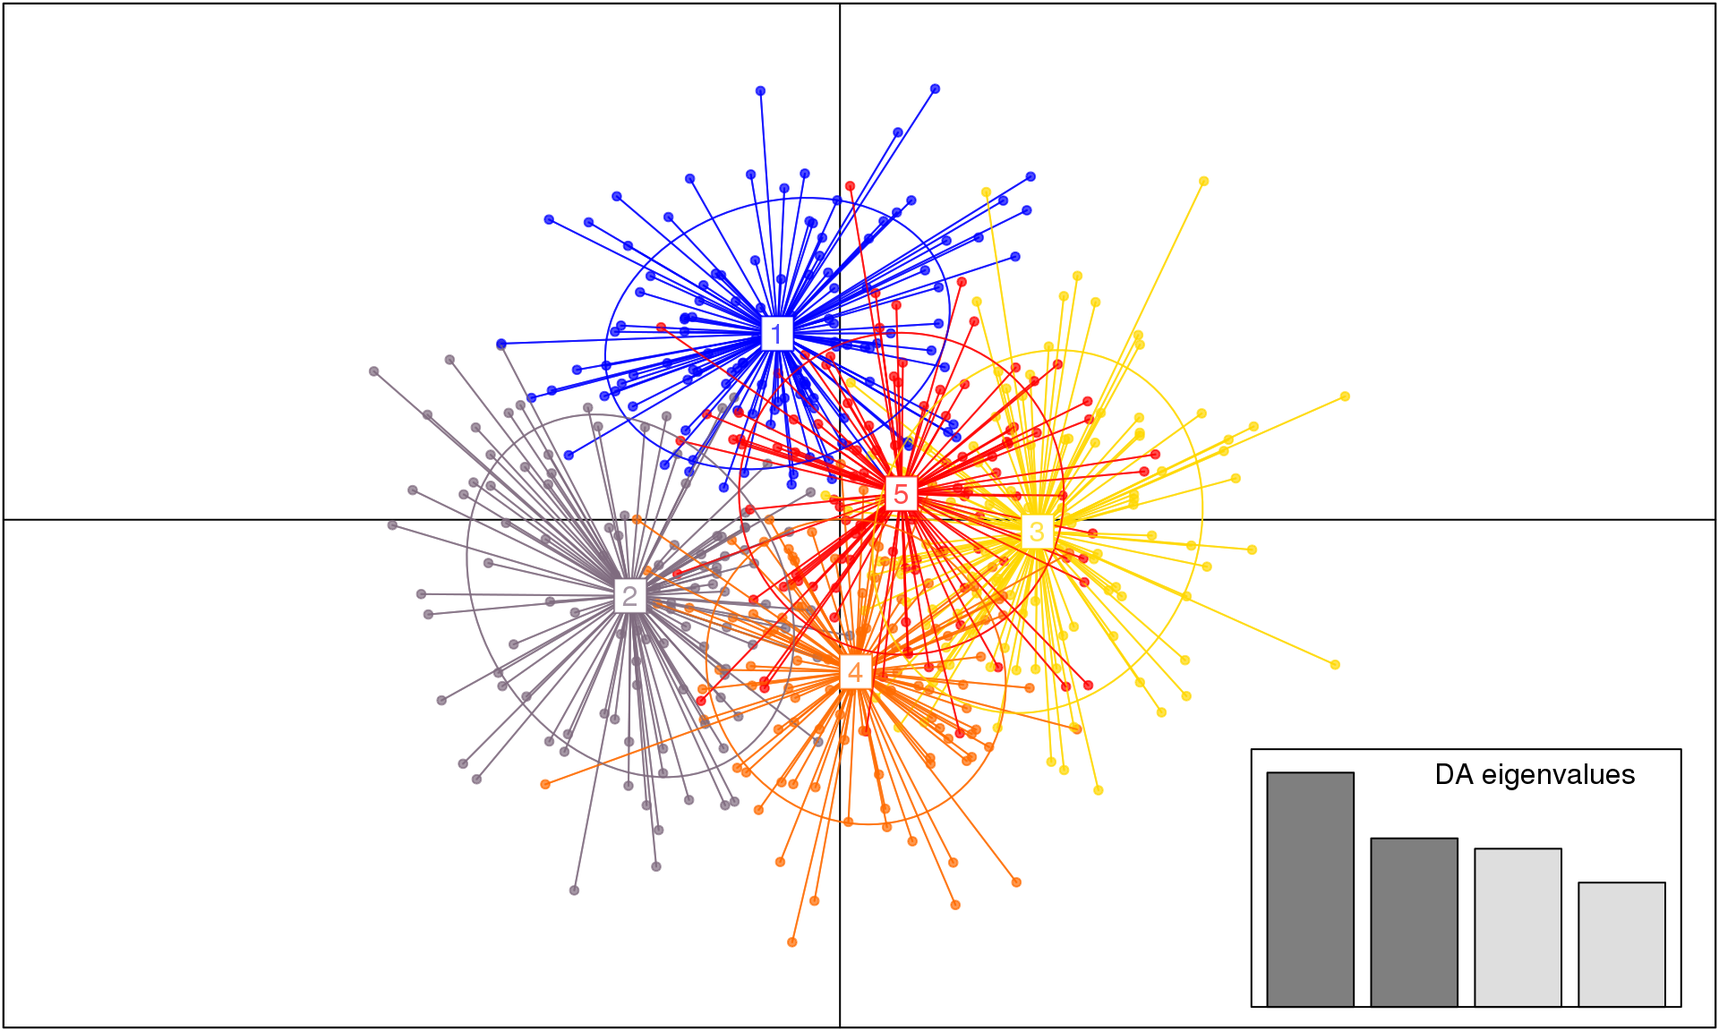
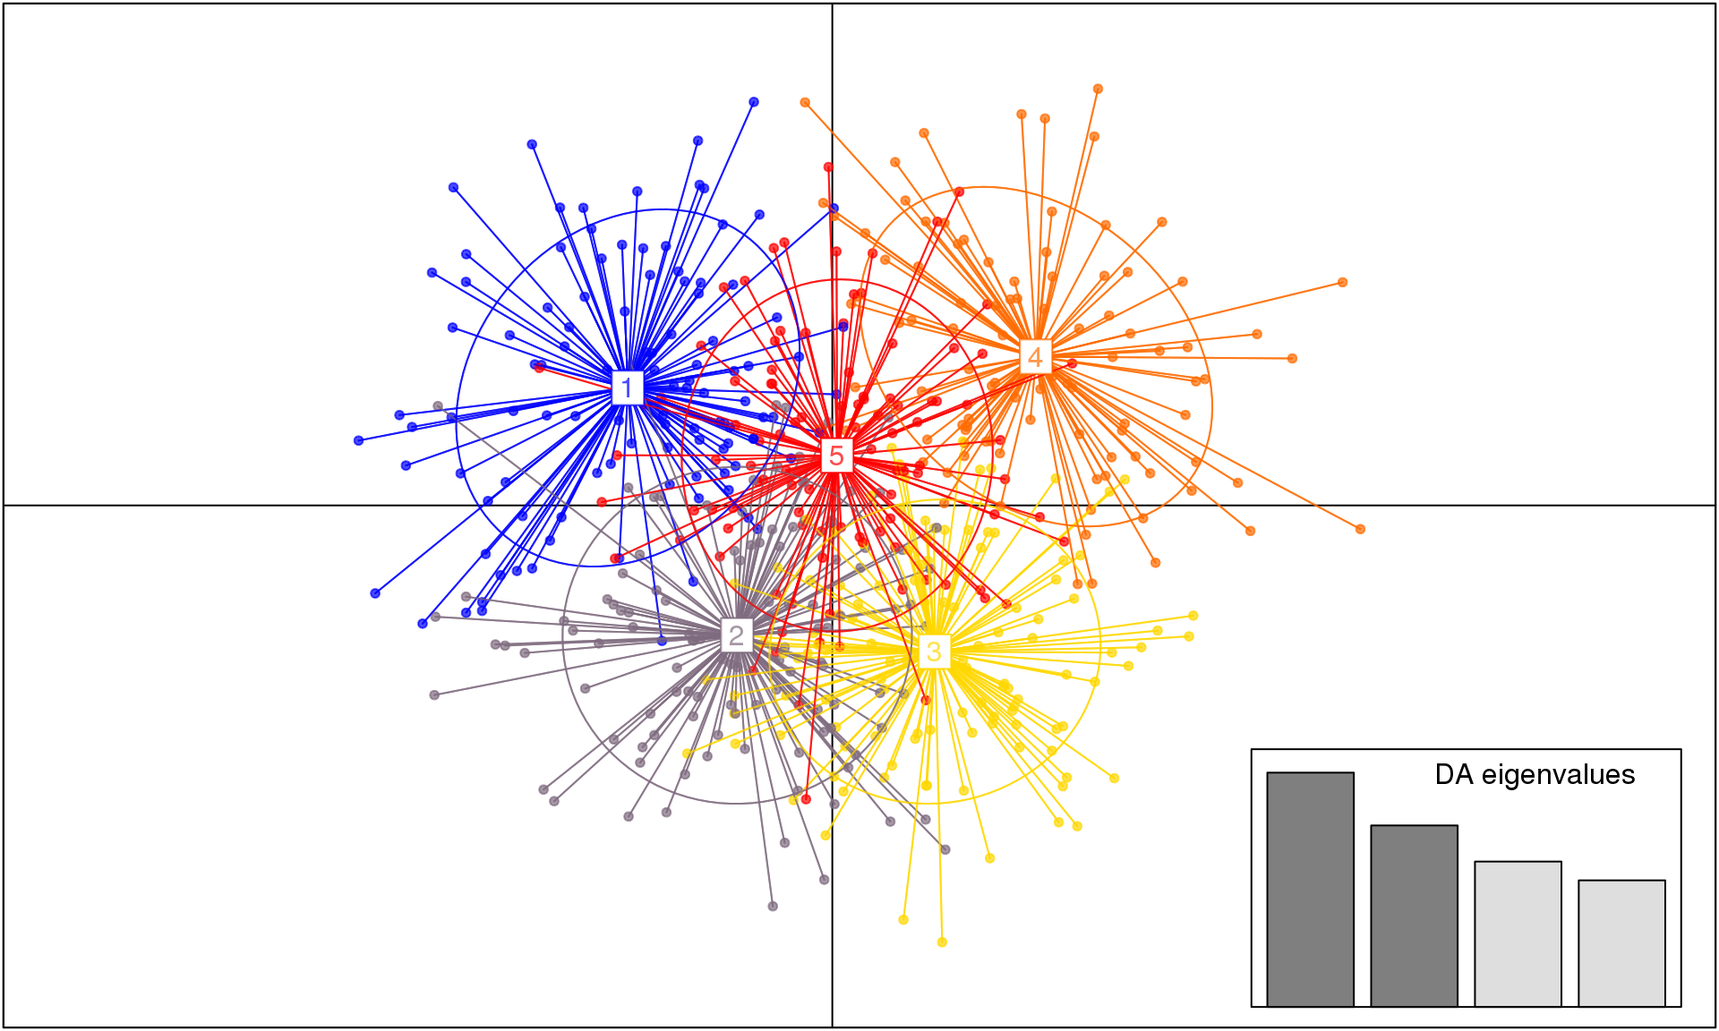
Website rebuild

diff --git a/DifferentiationSNP.html b/DifferentiationSNP.html
@@ -867,31 +867,31 @@ Mydata1</code></pre>
 ## county     0.00000000 0.00000000 0.01829604</code></pre>
 <pre class="sourceCode r"><code class="sourceCode r"><span class="kw">test.g</span>(loci, <span class="dt">level =</span> population) </code></pre>
 <pre><code>## $g.star
-##   [1] 210.8100 186.3870 230.4948 167.0410 207.3651 237.2753 176.4768
-##   [8] 215.3205 230.4162 216.4219 218.5929 226.9873 197.5957 203.1308
-##  [15] 231.4134 194.1879 191.3711 217.2182 200.3523 239.2602 216.3045
-##  [22] 231.3728 195.3112 259.8892 202.4718 188.2776 214.3037 230.2222
-##  [29] 223.9776 210.2512 220.2253 237.8656 229.0667 259.2973 212.3970
-##  [36] 235.6147 228.3443 211.5380 202.8803 210.7570 212.9857 199.6154
-##  [43] 221.4950 257.8399 242.5471 245.3602 223.6307 202.4137 209.8531
-##  [50] 268.6371 254.4837 223.1305 217.4867 231.6750 190.1908 208.0980
-##  [57] 211.1745 240.7807 210.4674 227.0127 230.8674 237.9177 180.6509
-##  [64] 232.5953 258.1977 277.1436 203.6562 164.0938 203.8054 236.7170
-##  [71] 195.9884 223.6362 214.7981 223.8584 258.7414 182.6587 249.0385
-##  [78] 241.1837 201.3635 216.5108 195.1451 212.1377 203.3206 195.6322
-##  [85] 256.8467 254.5412 191.9983 207.8805 231.6262 271.1513 218.0037
-##  [92] 197.6471 209.9039 239.6341 210.8253 203.6352 207.6693 193.6882
-##  [99] 211.2401 378.7654
+##   [1] 218.4701 221.5933 195.0217 188.0267 250.7419 209.2837 216.6856
+##   [8] 237.4567 222.4132 254.3397 217.2368 224.0422 233.0045 232.2835
+##  [15] 223.9049 243.1879 270.5246 241.0208 208.4008 249.6714 251.0227
+##  [22] 264.0990 240.1124 244.8748 214.9818 206.2400 198.3410 237.3491
+##  [29] 186.4258 236.4478 200.7472 241.1557 207.7276 225.1637 248.9579
+##  [36] 228.9557 220.7122 236.3679 225.5039 217.8031 225.9740 192.7351
+##  [43] 217.5833 233.1850 227.1071 232.9625 250.2154 209.7124 214.6590
+##  [50] 237.1523 214.6997 215.2751 210.8989 198.1269 235.7991 233.6489
+##  [57] 214.0363 278.1111 183.9962 209.9724 224.6429 245.4499 213.0595
+##  [64] 210.0326 207.8942 193.2628 215.4560 189.4061 238.4702 212.4915
+##  [71] 196.6334 214.3665 229.7652 218.1843 221.3933 225.7334 239.7780
+##  [78] 271.1591 208.7467 212.4295 247.1032 192.8331 254.8385 250.4488
+##  [85] 247.0090 205.9685 186.7695 226.2642 249.5318 209.8881 219.8417
+##  [92] 207.3815 243.0336 227.8717 194.6572 233.1414 222.5423 186.9131
+##  [99] 194.3453 378.7654
 ## 
 ## $p.val
 ## [1] 0.01</code></pre>
 <pre class="sourceCode r"><code class="sourceCode r"><span class="kw">test.between</span>(loci, <span class="dt">test.lev =</span> population, <span class="dt">rand.unit =</span> county, <span class="dt">nperm =</span> <span class="dv">30</span>) </code></pre>
 <pre><code>## $g.star
-##  [1] 208.7316 309.4362 227.0450 328.8174 227.3692 323.7946 295.0984
-##  [8] 256.6360 259.1800 309.9605 280.6658 241.1172 267.8485 293.4560
-## [15] 232.0649 299.5720 260.7764 228.9724 247.2050 261.4925 259.5845
-## [22] 236.4597 212.6771 246.6692 242.8583 230.3342 297.5417 276.1284
-## [29] 229.3126 378.7654
+##  [1] 277.9410 251.3548 258.5737 255.3215 209.6048 241.3901 275.5063
+##  [8] 275.9565 246.1506 244.3617 260.1508 279.1175 257.4749 243.2574
+## [15] 292.6438 270.9125 279.1337 248.1146 245.4167 270.7454 285.2983
+## [22] 247.0085 242.1519 262.0304 268.9372 242.0838 270.7880 287.8304
+## [29] 253.9468 378.7654
 ## 
 ## $p.val
 ## [1] 0.03333333</code></pre>
@@ -917,115 +917,115 @@ grp &lt;-<span class="st"> </span><span class="kw">find.clusters</span>(Mydata1,
 <pre><code>## [1] &quot;Kstat&quot; &quot;stat&quot;  &quot;grp&quot;   &quot;size&quot;</code></pre>
 <pre class="sourceCode r"><code class="sourceCode r">grp$grp</code></pre>
 <pre><code>##   1066   2040   4004   4005   4018   6009   6013   7033   7056   7069 
-##      2      4      3      4      2      5      3      3      1      5 
+##      1      5      4      5      1      3      4      3      3      3 
 ##   7088   7105   8001   8061   8068   8076   8120   8195   8203   8222 
-##      3      1      3      3      3      4      2      4      2      3 
+##      4      3      4      4      4      5      1      5      1      4 
 ##   8223   8231   8237   8301   8302   8303   8304   8305   8307   8308 
-##      3      3      5      3      4      5      4      3      5      5 
+##      4      4      3      4      5      3      5      4      3      3 
 ##   8309   8310   8313   8314   8316   8317   8318   8319   8320   8323 
-##      4      2      3      5      3      4      5      3      5      2 
+##      5      1      4      4      4      5      3      4      3      1 
 ##   8324   8327   8328   8329   8330   8332   8333   8334   8335   8336 
-##      2      3      3      5      3      4      4      2      2      4 
+##      1      4      4      3      2      5      5      1      1      5 
 ##   8337   8338   8339   8340   8342   8343   8344   8345   8346   8347 
-##      3      3      3      3      2      4      5      2      2      3 
+##      4      4      4      4      1      5      3      1      1      4 
 ##   8349   8350   8351   8352   8353   8354   8355   8356   8357   8358 
-##      3      3      5      4      3      3      2      5      2      5 
+##      3      3      5      5      4      4      1      4      1      3 
 ##   8364   8365   8366   8367   8368   8369   8370   8371   8372   8373 
-##      2      3      3      5      3      3      4      2      3      3 
+##      1      4      4      3      4      4      5      1      4      4 
 ##   8374   8375   8376   8377   8378   8379   8381   8382   8383   8384 
-##      3      3      2      2      4      4      3      3      2      1 
+##      4      4      1      1      5      5      4      4      1      3 
 ##   8385   8386   8387   8388   8389   8390   8391   8392   8393   8395 
-##      3      4      3      3      5      2      1      3      2      5 
+##      4      5      4      4      3      1      2      4      1      3 
 ##   8400   8402   8403   8559   8565   8567   8568   8569   8570   8571 
-##      3      5      5      2      5      5      4      2      3      2 
+##      4      3      3      1      3      3      5      1      4      1 
 ##   8572   8573   8574   8601   8602   8603   8604   8606   8607   8608 
-##      1      3      4      2      3      1      4      5      2      5 
+##      2      4      5      1      4      2      5      3      1      3 
 ##   8609   8610   8611   8613   8615   8616   8618   8619   8620   8621 
-##      4      1      3      4      5      4      5      4      5      5 
+##      5      3      4      5      3      5      3      5      3      3 
 ##   8622   8624   8626   8628   8629   8630   8631   8633   8634   8635 
-##      4      1      4      3      5      4      2      3      1      4 
+##      5      2      5      4      3      5      1      4      3      4 
 ##   8636   8637   8638   8639   8640   8641   8642   8643   8644   8645 
-##      1      4      5      5      3      5      4      5      4      1 
+##      3      5      3      3      2      3      5      3      5      2 
 ##   8646   8647   8648   8651   8652   8653   8654   8655   8656   8657 
-##      2      3      5      2      5      4      3      5      3      1 
+##      1      4      3      1      3      5      4      3      4      3 
 ##   8658   8659   8660   8661   8662   8663   8664   8667   8669   8670 
-##      4      4      5      5      1      2      1      4      4      3 
+##      5      5      3      3      2      1      2      5      5      4 
 ##   8671   8672   8673   8674   8675   8676   8677   8678   8679   8680 
-##      4      4      5      5      3      2      4      5      3      5 
+##      5      5      3      3      4      1      5      3      3      4 
 ##   8683   8685   8686   8687   8688   8689   8691   8692   8693   8694 
-##      3      1      2      5      2      4      2      2      5      5 
+##      3      2      1      3      1      5      1      2      3      3 
 ##   8695   8696   8697   8698   8699   8700   8701   8702   8703   8704 
-##      3      5      5      1      5      3      2      2      5      4 
+##      3      3      3      2      3      3      1      1      3      5 
 ##   8705   8706   9003   9006   9015  10005  11010  11503  11532  12008 
-##      1      3      4      4      1      4      2      5      1      5 
+##      2      4      5      5      3      5      1      4      2      3 
 ##  12012  14010  14015  22212  68087  68088  68090  68095  68130  68131 
-##      2      3      5      3      2      2      2      1      2      2 
+##      1      3      3      4      1      1      1      2      1      1 
 ##  68133  68134  68135   105A   108A   109B   110B   112C   115B   117B 
-##      4      2      4      1      2      3      2      4      4      3 
+##      5      1      5      2      1      4      1      5      5      4 
 ##   118B    11A   120A   121C   127A   128A   131B   132B   136C   138A 
-##      1      4      5      5      1      5      1      2      1      3 
+##      2      5      3      3      2      3      2      1      5      4 
 ##   139B   140B   141A   142B   144C   145A   146C   147A   149B   150A 
-##      1      1      5      1      1      3      2      5      1      3 
+##      2      2      3      2      2      4      1      3      2      4 
 ##   151A   152B   153B   154C   155B   156C   157A   158B    15A   162A 
-##      4      3      1      1      1      5      1      4      2      5 
+##      5      4      2      2      2      3      2      5      1      3 
 ##   166B    16A   171A   173A   174A    17C   188A   189A   190A   191A 
-##      2      4      5      5      2      4      2      5      3      1 
+##      2      5      3      3      2      5      1      3      4      2 
 ##    19A   205B    20A   212A   213A   217C   219A    21A   220A   224A 
-##      3      1      1      3      4      1      2      1      4      5 
+##      4      2      2      4      5      2      1      2      5      3 
 ##   226C   227C   234B   235A   238A    23A   245B   248A   250C   253A 
-##      2      3      5      1      1      1      5      4      3      3 
+##      1      4      3      2      2      3      3      5      4      5 
 ##   254C   257B   258A   260B   262A   264C   265A   268A   269A   270C 
-##      4      4      1      1      2      4      2      3      2      1 
+##      5      5      2      2      1      5      1      4      1      2 
 ##   271A   272B   275A   276B   277A    27A   281A   282B   283C   285C 
-##      5      3      1      4      4      4      2      1      2      4 
+##      3      4      2      1      5      5      1      2      1      5 
 ##   286B   287C   288C   289A   290C   291C   292C   298B   299C   300C 
-##      3      2      2      5      1      4      2      5      4      1 
+##      4      1      1      3      2      5      1      3      5      2 
 ##   302A   303C   305A   306A   307A   311A   316B   320C   322A   323B 
-##      1      5      1      2      5      1      3      1      3      1 
+##      2      3      2      1      3      2      2      2      4      2 
 ##   324A   326A   327A   328B   329B    32A   330A   331B   332C   334A 
-##      2      4      4      1      1      1      5      1      5      3 
+##      1      5      5      2      2      2      3      2      3      2 
 ##   335A   336A   339B   340A   341C   346A   349B    34A   351A   353C 
-##      4      5      1      1      5      2      4      1      3      3 
+##      5      3      2      2      3      1      5      2      2      4 
 ##   355A    35A   360B   361B   362C   365B   366A   368B   369A    36A 
-##      4      2      1      1      3      3      4      5      1      4 
+##      5      1      2      2      4      4      5      3      2      5 
 ##   370C   371B   372A   373B   375A   377B   378B   379B   382A   383C 
-##      1      2      2      4      1      2      5      5      2      1 
+##      2      1      1      5      3      1      3      3      1      3 
 ##   384A   385B   387A   388B   389A   390B   391C   392A   393C   395A 
-##      5      1      2      2      4      3      1      4      1      3 
+##      3      2      1      1      5      4      2      5      2      4 
 ##   397A   398C   400C   407A   408C   409B   410A   411C   412C   414A 
-##      1      2      5      1      5      5      2      4      5      1 
+##      2      1      3      3      3      3      1      5      3      2 
 ##   415A   416B   417A   418A   419B    41C   420B   421A   422B   423C 
-##      5      2      3      4      4      5      2      3      2      4 
+##      3      1      4      5      5      4      1      4      1      5 
 ##   424B   425B   426B   427C   428C   429B    42A   430B   431B   433B 
-##      5      2      3      2      5      4      5      4      4      2 
+##      3      1      2      1      3      5      3      5      5      1 
 ##   434B   435C   436A    43B   441C   442C   443C   448C   449A   450B 
-##      3      1      1      3      5      5      2      4      1      2 
+##      4      2      2      4      3      3      1      5      2      1 
 ##   451B   459A   461A   463A   469C   470A   471B   481A   483A   484A 
-##      5      1      1      4      4      1      3      2      2      4 
+##      1      2      2      5      5      2      4      1      1      5 
 ##   485A   486B   487C   489B    48B   492C   493A   496B   498B   499A 
-##      3      4      2      1      1      3      5      1      2      1 
+##      4      5      1      2      2      4      3      3      1      5 
 ##    49A   500B   501A   502C   514A   515A   519B   520B   526A   527B 
-##      1      5      1      5      1      2      1      4      5      3 
+##      2      3      2      3      2      1      2      5      3      2 
 ##   528C    52A   531A   532A   533A   534A   535C   536A   539A    53C 
-##      1      1      4      2      1      5      4      1      1      1 
+##      2      2      5      2      2      5      5      2      2      2 
 ##   540A   541A   542C   543C   544B   545A   546C   548C   549A    54C 
-##      3      1      2      1      5      1      2      2      3      4 
+##      4      2      1      2      3      2      1      1      2      5 
 ##   551C   552A   553B   554A   555C   556A   557B   558A   559A    55A 
-##      3      2      1      3      1      1      1      1      1      1 
+##      4      1      2      4      2      2      2      2      2      3 
 ##   561A   562A   563A   564B   565C   566B   568B   570A   571A   572C 
-##      4      1      1      1      5      3      4      2      1      5 
+##      5      2      2      2      4      3      5      1      2      3 
 ##   573C   574B   576A   577B   578B   579A    57A   580A   581C   600A 
-##      3      4      3      1      1      3      4      3      2      2 
+##      2      5      3      2      3      4      5      4      1      1 
 ##   601A   603A   605B   606B    60A   612C   613A   618A   619A    61A 
-##      4      5      4      2      3      5      2      1      5      2 
+##      5      3      5      1      4      1      1      2      3      1 
 ##   620C   621A   633B   634C   635A   636C   637B    63B   644B   645A 
-##      2      5      2      1      2      2      2      3      2      4 
+##      1      1      1      2      1      1      1      4      1      5 
 ##   646A    66A    67C    69A    73B    77B     7A    86C    89C    90C 
-##      2      5      1      4      3      3      5      4      4      1 
+##      1      3      2      5      4      4      3      5      5      2 
 ##    92A    93C    94C    97B    98A    99C     9A CRO108 CRO120 CRO121 
-##      1      1      1      3      3      1      1      1      5      5 
+##      2      2      2      4      4      2      2      3      3      3 
 ## CRO133 DF3364  FM406  FM417  FM428  FM442  FM445  S4PT6   SH13    SH7 
-##      3      2      5      4      2      3      1      2      5      3 
+##      4      1      3      5      1      4      2      1      3      4 
 ## Levels: 1 2 3 4 5</code></pre>
 <p>The K means procedure detected 5 groups. We will use this number of group in the discriminant analysis (function <code>dapc</code>). On your own dataset, you need to spend more time to estimate the number of cluster.</p>
 <pre class="sourceCode r"><code class="sourceCode r">dapc1 &lt;-<span class="st"> </span><span class="kw">dapc</span>(Mydata1, grp$grp, <span class="dt">n.pca =</span> <span class="dv">20</span>, <span class="dt">n.da =</span> <span class="dv">6</span>) 

diff --git a/StartSNP.html b/StartSNP.html
@@ -370,7 +370,7 @@ Mydata3 &lt;-<span class="st"> </span><span class="kw">genind2loci</span>(Mydata
 ## data:  list(div$Hexp, div$Hobs)
 ## Bartlett&#39;s K-squared = 0.014, df = 1, p-value = 0.9058</code></pre>
 <p>We observed that heterozygosity varies among loci. We observed no difference between expected and observed heterozygosity.</p>
-<p>Basic statistics with hierfstat. Populations are states. The fuction <code>basicstat</code> provides the observed heterozygosity (<span class="math">\(H_o\)</span>), mean gene diversities within population (<span class="math">\(H_s\)</span>), <span class="math">\(F_{is}\)</span>, and <span class="math">\(F_{st}\)</span> The function <code>boot.ppfis</code> provides confidence interval for <span class="math">\(F_{is}\)</span> The fuction <code>indpca</code> does an PCA on the centered matrix of individual’s allele frequencies.</p>
+<p>Basic statistics with hierfstat. Populations are states. The function <code>basicstat</code> provides the observed heterozygosity (<span class="math">\(H_o\)</span>), mean gene diversities within population (<span class="math">\(H_s\)</span>), <span class="math">\(F_{is}\)</span>, and <span class="math">\(F_{st}\)</span> The function <code>boot.ppfis</code> provides confidence interval for <span class="math">\(F_{is}\)</span> The fuction <code>indpca</code> does an PCA on the centered matrix of individual’s allele frequencies.</p>
 <pre class="sourceCode r"><code class="sourceCode r">basicstat &lt;-<span class="st"> </span><span class="kw">basic.stats</span>(Mydata2, <span class="dt">diploid =</span> <span class="ot">TRUE</span>, <span class="dt">digits =</span> <span class="dv">2</span>) 
 <span class="kw">names</span>(basicstat)   </code></pre>
 <pre><code>## [1] &quot;n.ind.samp&quot; &quot;pop.freq&quot;   &quot;Ho&quot;         &quot;Hs&quot;         &quot;Fis&quot;       
@@ -381,17 +381,17 @@ Mydata3 &lt;-<span class="st"> </span><span class="kw">genind2loci</span>(Mydata
 ## 
 ## $fis.ci
 ##         ll      hl
-## 1  -0.0241  0.2849
-## 2  -0.0488  0.0416
-## 3   0.0120  0.0809
-## 4  -0.0448  0.1026
-## 5  -0.0275  0.0774
-## 6  -0.5131  0.2325
-## 7  -0.1969  0.1443
-## 8  -0.2184 -0.0264
-## 9  -0.1311  0.3256
-## 10  0.0439  0.3512
-## 11 -0.4334 -0.1386</code></pre>
+## 1  -0.0610  0.3204
+## 2  -0.0533  0.0433
+## 3   0.0080  0.1022
+## 4  -0.0363  0.0851
+## 5  -0.0325  0.0729
+## 6  -0.5318  0.2174
+## 7  -0.2806  0.1285
+## 8  -0.2168 -0.0535
+## 9  -0.1562  0.3543
+## 10  0.0182  0.3299
+## 11 -0.4266 -0.1666</code></pre>
 <pre class="sourceCode r"><code class="sourceCode r">x &lt;-<span class="st"> </span><span class="kw">indpca</span>(Mydata2) 
 <span class="kw">plot</span>(x, <span class="dt">cex=</span><span class="fl">0.7</span>)</code></pre>
 <p><img src="StartSNP_files/figure-html/basic_statistics-1.png" title="" alt="" width="960" /></p>
@@ -401,17 +401,17 @@ Mydata3 &lt;-<span class="st"> </span><span class="kw">genind2loci</span>(Mydata
 <p>We used the pegas package.</p>
 <pre class="sourceCode r"><code class="sourceCode r"><span class="kw">hw.test</span>(Mydata3, <span class="dt">B =</span> <span class="dv">1000</span>)</code></pre>
 <pre><code>##                      chi^2 df Pr(chi^2 &gt;) Pr.exact
-## X0.10037.01.257 0.75465490  1  0.38500645    0.421
-## X0.10040.02.394 0.16628227  1  0.68343723    0.717
-## X0.10044.01.392 2.96053195  1  0.08531987    0.088
+## X0.10037.01.257 0.75465490  1  0.38500645    0.469
+## X0.10040.02.394 0.16628227  1  0.68343723    0.742
+## X0.10044.01.392 2.96053195  1  0.08531987    0.087
 ## X0.10048.01.60  6.39076800  1  0.01147154    0.013
-## X0.10051.02.166 1.12035389  1  0.28984227    0.292
-## X0.10054.01.402 1.54582494  1  0.21375285    0.219
-## X0.10067.03.111 0.04868128  1  0.82537403    0.564
-## X0.10079.02.168 0.01579313  1  0.89999259    0.600
+## X0.10051.02.166 1.12035389  1  0.28984227    0.307
+## X0.10054.01.402 1.54582494  1  0.21375285    0.236
+## X0.10067.03.111 0.04868128  1  0.82537403    0.584
+## X0.10079.02.168 0.01579313  1  0.89999259    0.598
 ## X0.10112.01.169 0.41126025  1  0.52133054    1.000
-## X0.10113.01.119 0.74248768  1  0.38886515    0.440
-## X0.10116.01.165 1.87098306  1  0.17136253    0.228</code></pre>
+## X0.10113.01.119 0.74248768  1  0.38886515    0.479
+## X0.10116.01.165 1.87098306  1  0.17136253    0.229</code></pre>
 <p>We get for each locus a test of significance of the null hypothesis: <span class="math">\(H_0\)</span> the locus is in HW equilibrium in the population. All but one locus are in HW equilibrium.</p>
 </div>
 </div>

diff --git a/package_basics.html b/package_basics.html
@@ -344,7 +344,7 @@ img {
 ## [1] &quot;~/R-dev&quot;
 ## 
 ## $devtools.revdep.libpath
-## [1] &quot;/tmp/RtmpYvqTUU/R-lib&quot;</code></pre>
+## [1] &quot;/tmp/Rtmp3ulttB/R-lib&quot;</code></pre>
 <p>After looking at the documentation, we know that we want to change the values <code>devtools.desc.author</code>, <code>devtools.desc.license</code>, <code>devtools.name</code>. We will also add a “Maintainer” field to the DESCRIPTION file (tells users who to blame). The others don’t matter for now. We can add them in thusly (Note, I am using my name; you should obviously use your own):</p>
 <pre class="sourceCode r"><code class="sourceCode r">authors_at_r &lt;-<span class="st"> </span><span class="kw">paste0</span>(
   <span class="st">&quot;&#39;&quot;</span>,
@@ -383,7 +383,7 @@ img {
 ## [1] &quot;~/R-dev&quot;
 ## 
 ## $devtools.revdep.libpath
-## [1] &quot;/tmp/RtmpYvqTUU/R-lib&quot;</code></pre>
+## [1] &quot;/tmp/Rtmp3ulttB/R-lib&quot;</code></pre>
 <blockquote>
 <p>It is much easier to edit the DESCRIPTION file by hand afterward. This simply demonstrates how you can get started.</p>
 </blockquote>

diff --git a/SummarySequenceData.html b/SummarySequenceData.html
@@ -345,10 +345,10 @@ myData1_HWE <span class="co"># p-values lower than 0.05 indicate deviations from
 <pre><code>## 
 ## Estimates for each locus
 ## Locus    Mean     95% CI
-## L1   0.2139  (0.1555-0.2903)
+## L1   0.2153  (0.1625-0.2953)
 ## 
 ## Global Estimate based on average heterozygosity
-## 0.2139   (0.1555-0.2903)</code></pre>
+## 0.2153   (0.1625-0.2953)</code></pre>
 <pre class="sourceCode r"><code class="sourceCode r"><span class="kw">summarise_bootstrap</span>(myData1_bs, Gst_Hedrick) <span class="co"># estimate Hedrick&#39;s Gst and whether or not it is significant</span></code></pre>
 <pre><code>## 
 ## Estimates for each locus

diff --git a/PopDiffSequenceData.html b/PopDiffSequenceData.html
@@ -272,7 +272,7 @@ populations &lt;-<span class="st"> </span><span class="kw">factor</span>(<span c
 ## 
 ## Variance components:
 ##            sigma2 P.value
-## groups 2.3344e-06   0.198
+## groups 2.3344e-06  0.1881
 ## Error  3.6201e-05        
 ## 
 ## Variance coefficients:
